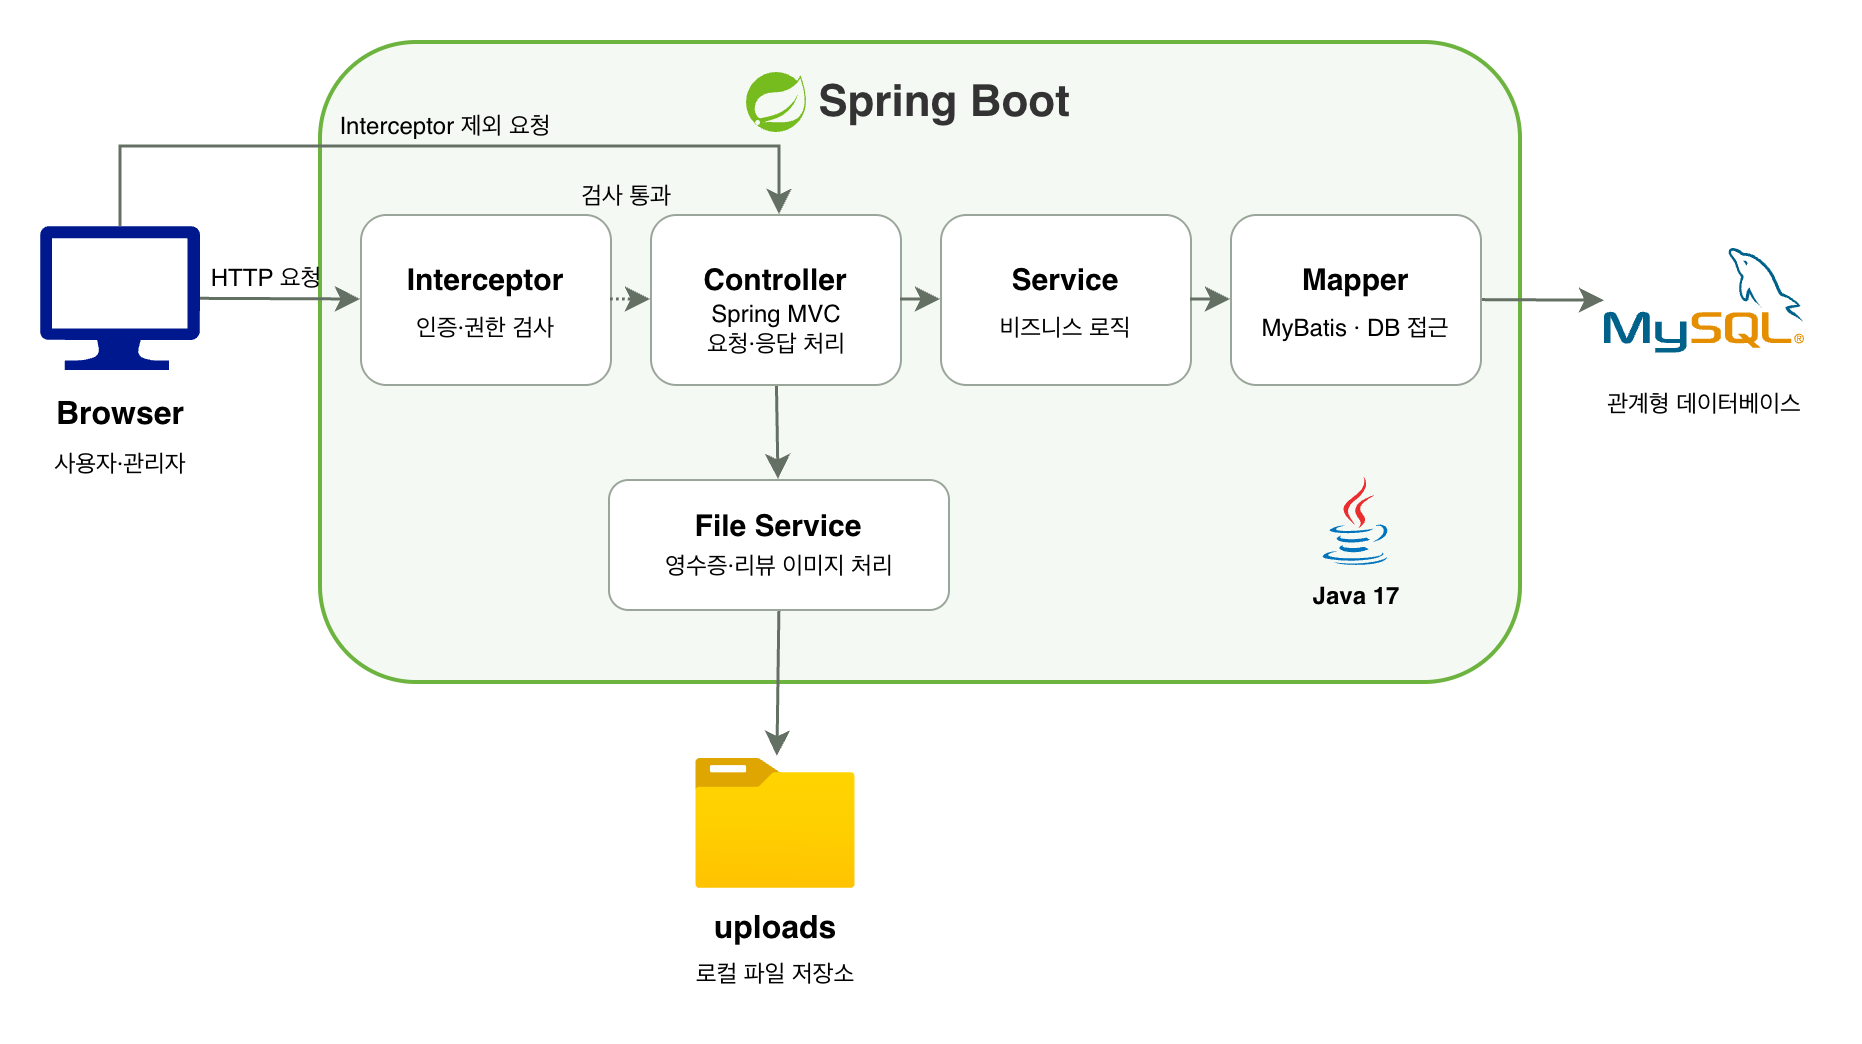
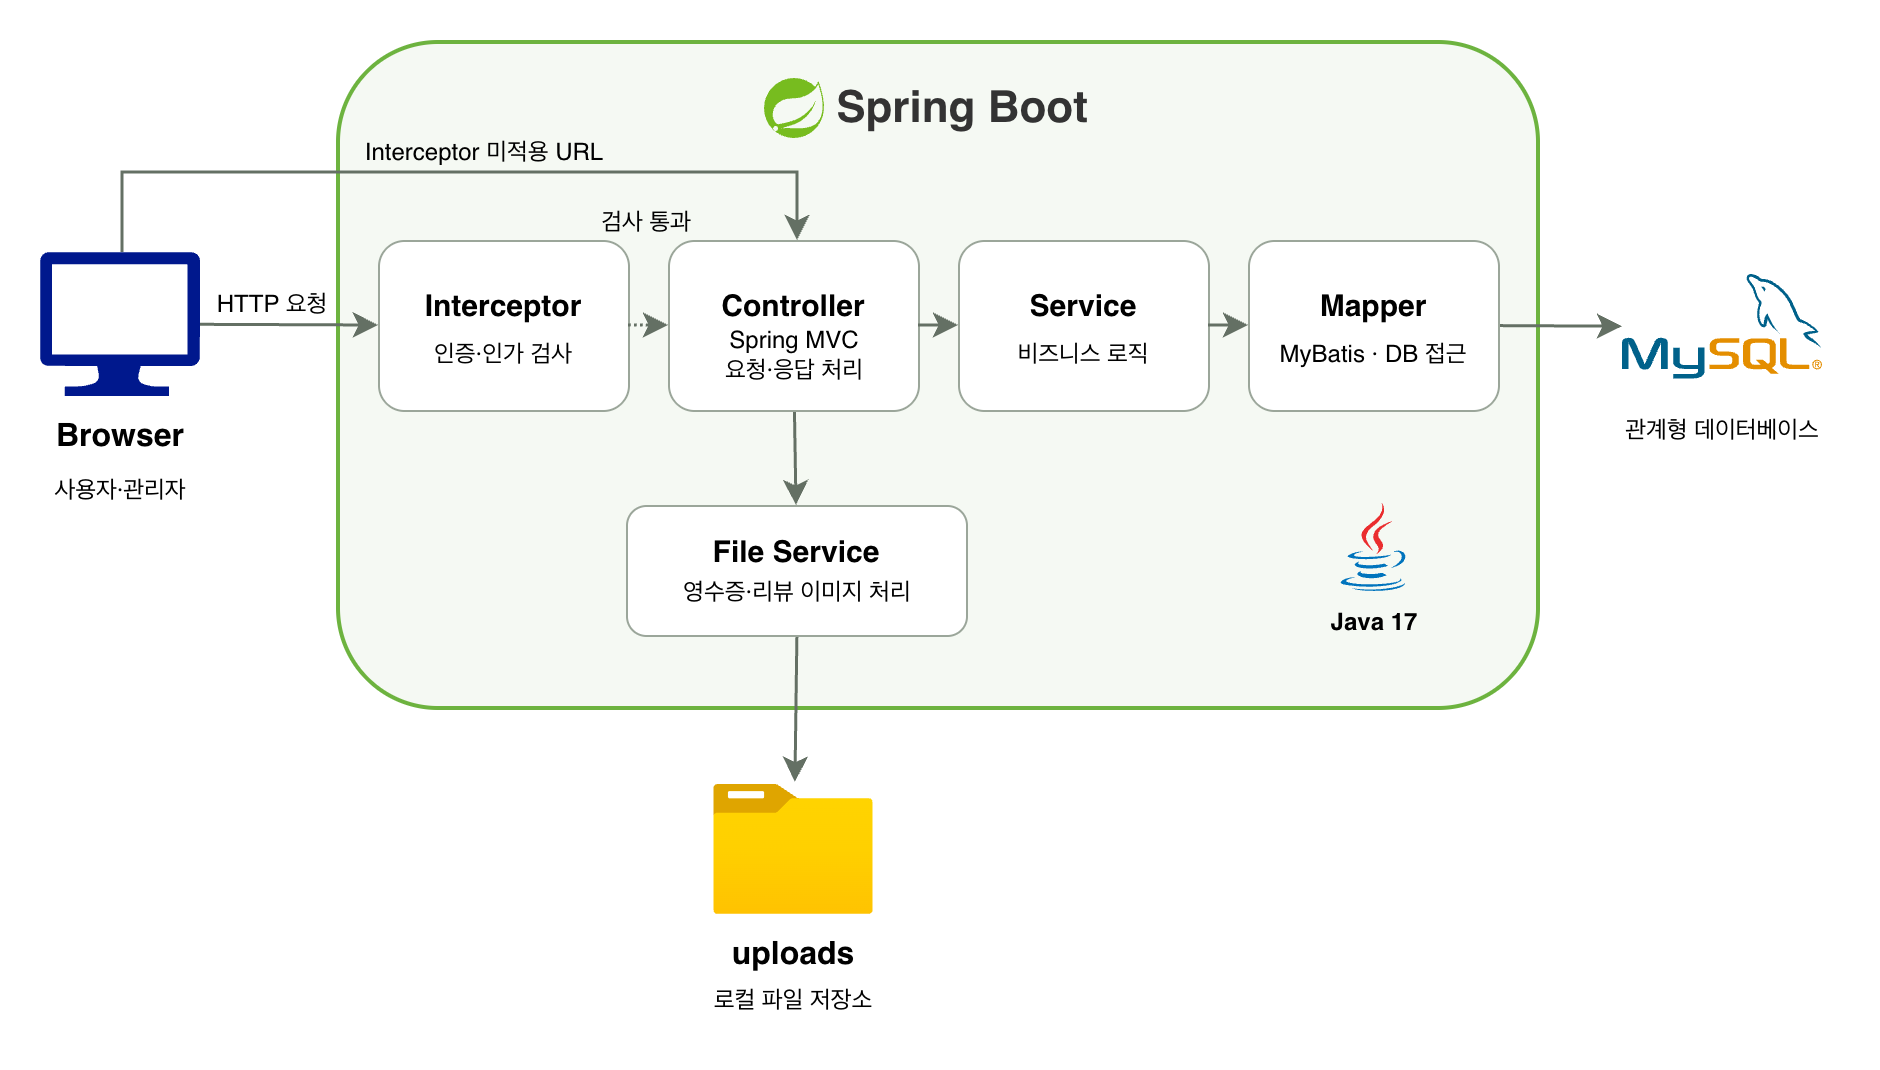
docs: README 최종 수정 및 시스템 구성도 업데이트

diff --git a/README.md b/README.md
@@ -9,6 +9,8 @@
 
 `개인 프로젝트` · `Backend Development`
 
+개발 기간: 2026.09 ~ 2026.11
+
 </div>
 
 ---
@@ -124,7 +126,7 @@ WHERE vno = #{vno}
 - 이미지 확장자 및 파일 헤더 검사
 - UUID 기반 파일명 생성
 - 리뷰 이미지 교체·삭제 시 기존 파일 정리
-- 리뷰 DB 등록 실패 시 새로 저장한 이미지 삭제 처리
+- 리뷰 DB 등록 실패 시 새로 저장한 이미지 삭제 시도
 
 ### 06. 리뷰 검색 및 페이징
 
@@ -213,12 +215,17 @@ WHERE vno = #{vno}
 
 ## 📡 REST API
 
-| Method | Endpoint | 설명 | 권한 |
-| --- | --- | --- | --- |
-| GET | `/api/reviews` | 리뷰 검색 및 페이징 | 전체 |
-| POST | `/api/reviews` | 리뷰 등록 | 로그인 회원 |
-| PATCH | `/api/admin/visits/{vno}/approve` | 방문 인증 승인 | 관리자 |
-| PATCH | `/api/admin/visits/{vno}/reject` | 방문 인증 거절 | 관리자 |
+### 주요 응답 코드
+
+| Status | 설명 |
+| :---: | --- |
+| 200 | 요청 성공 |
+| 201 | 리뷰 등록 성공 |
+| 400 | 잘못된 요청 또는 입력값 |
+| 401 | 인증 필요 |
+| 403 | 접근 권한 없음 또는 본인의 승인된 방문 인증이 아님 |
+| 409 | 중복 리뷰 또는 처리할 수 없는 방문 인증 |
+| 500 | 서버 내부 오류 |
 
 ### 리뷰 조회 요청 예시
 
@@ -245,11 +252,15 @@ GET /api/reviews?keyword=행복카페&rating=5&page=1
 
 ### 자동화 테스트
 
-JUnit 5와 Mockito를 사용했습니다.
+JUnit 5와 Mockito를 활용하여 주요 기능 및 권한 검증에 대한 테스트를 작성했습니다.
 
+- 로그인 및 관리자 접근 권한 검증
 - 관리자 방문 인증 승인·거절 성공 및 실패
-- 리뷰 REST API 요청 및 응답
-- 로그인 인터셉터
+- 리뷰 등록, 조회 및 입력값 검증
+- 가게 조회 및 영수증 파일 처리
+- 방문 인증 신청 기능 검증
+
+**테스트 클래스 13개, 총 54건 통과 (실패 0건, 건너뛴 테스트 0건)**
 
 ### 실제 MySQL 연동 검증
 
@@ -268,9 +279,9 @@ bash gradlew test
 
 현재 로컬 환경에서 개발 및 검증을 진행했으며, 실제 동시 요청 환경에서의 테스트는 아직 수행하지 않았습니다.
 
-- 서버 배포 및 배포 환경 검증
+- 서버 배포 및 운영 환경 검증
 - 동시 요청에 대한 데이터 정합성 검증
-- 파일 시스템 오류 상황에 대한 검증
+- 이미지 삭제 실패 등 파일 시스템 오류 상황에 대한 검증
 - 자동화 테스트 범위 확대
 
 ## 🚀 실행 방법
